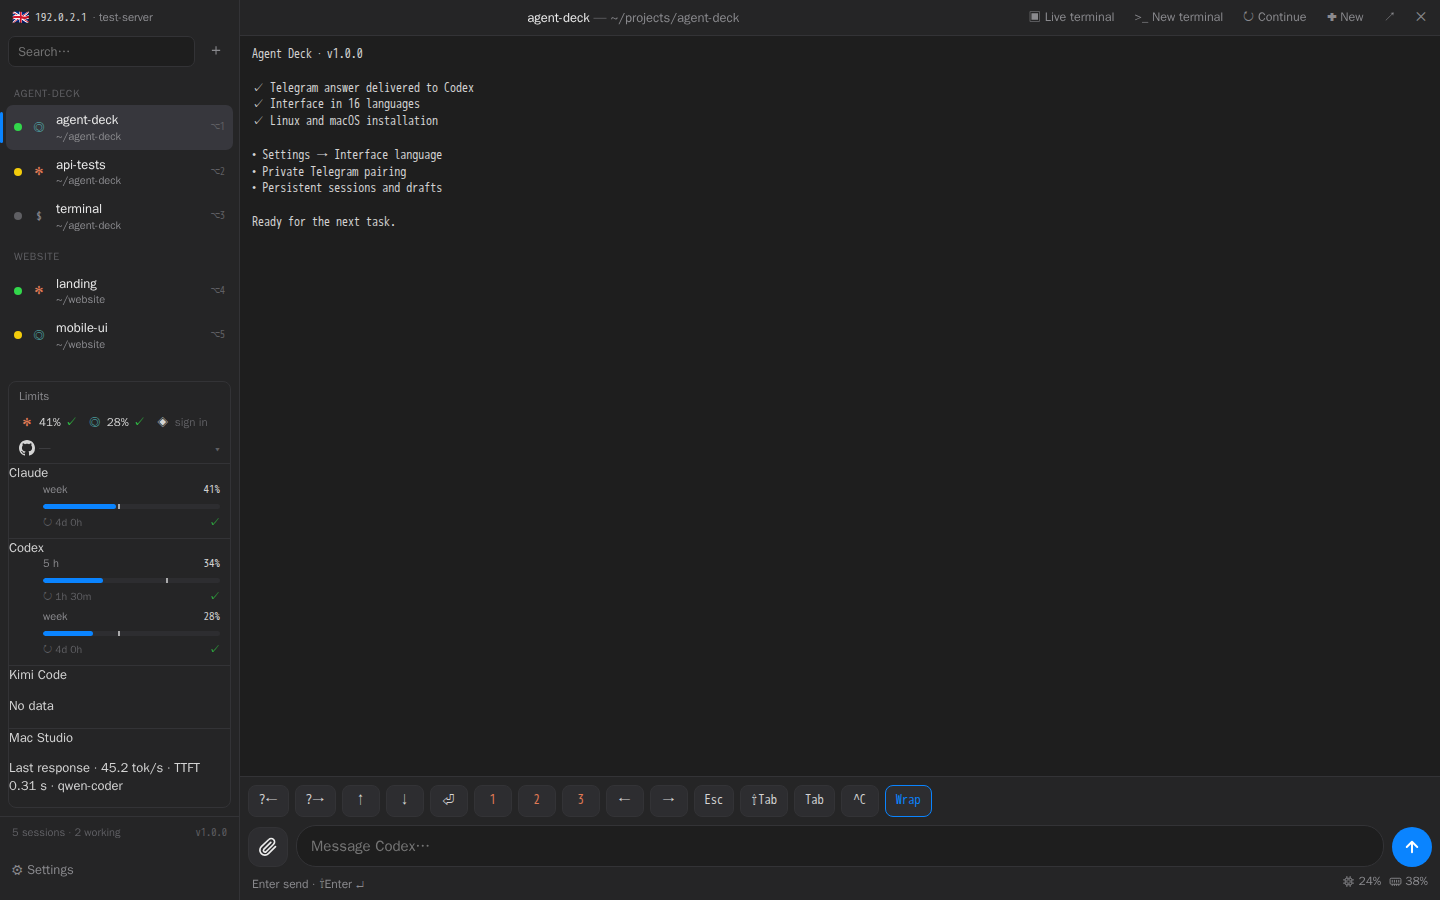
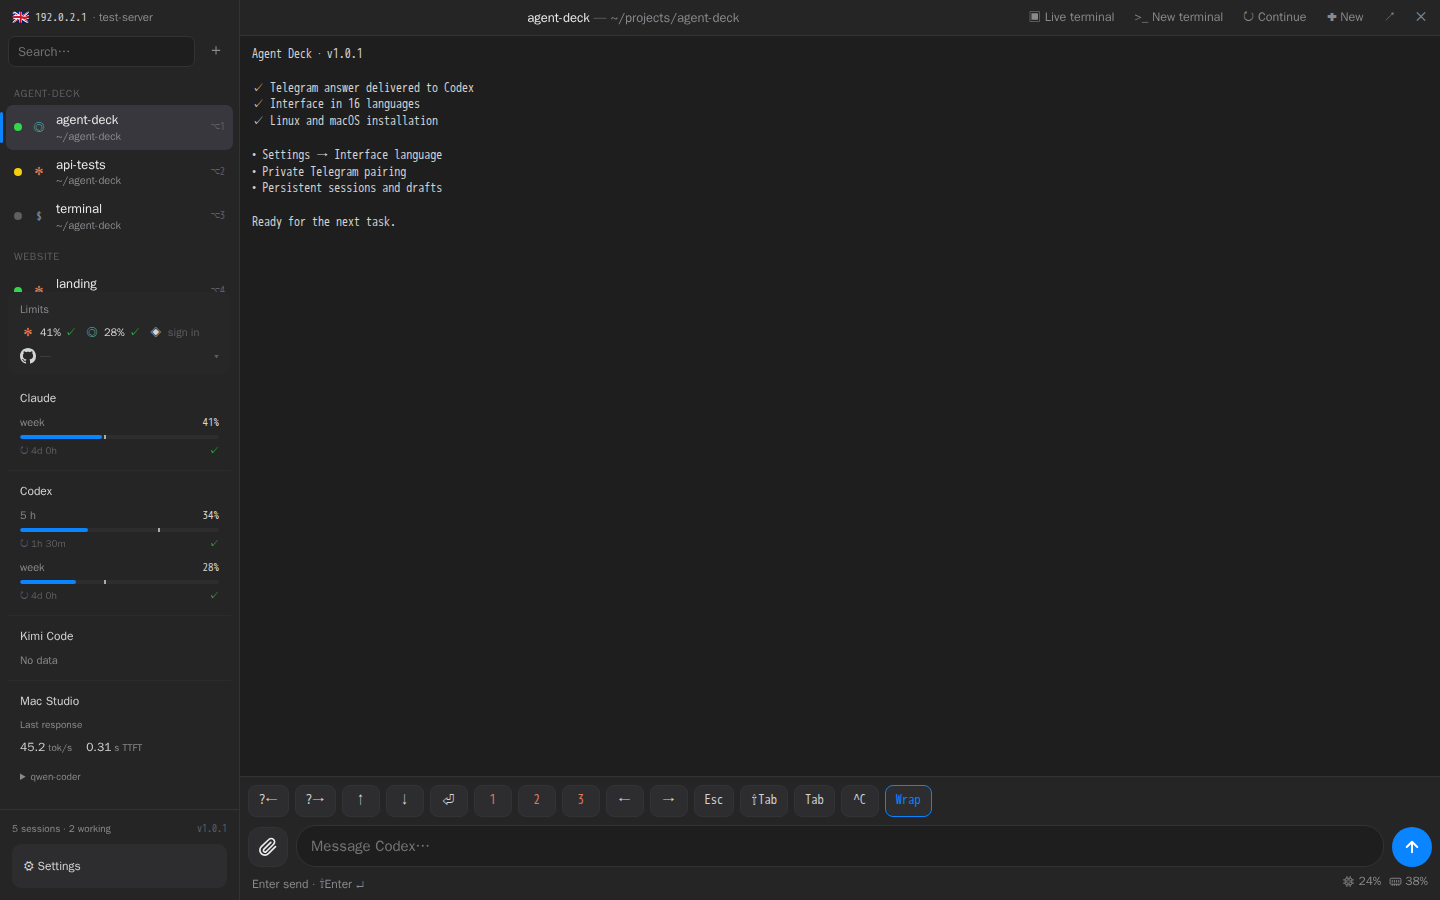
Polish drawer metrics and responsive settings dialogs

diff --git a/panel/index.html b/panel/index.html
@@ -318,15 +318,49 @@ dialog::backdrop{background:rgba(0,0,0,.55)}
 #closed_drafts pre{white-space:pre-wrap;overflow:auto;max-height:200px;overflow-wrap:anywhere}
 body.is-shell .agent-only{display:none!important}
 
-#settings_dlg{width:min(850px,calc(100vw - 32px));max-height:90dvh}
-.settings-hub{min-height:460px;max-height:90dvh}.hub-heading{display:flex;justify-content:space-between;align-items:center;padding:12px 20px;border-bottom:1px solid var(--bd)}
-.hub-heading h3{margin:0}.hub-heading button{min-width:44px;border-radius:8px}.settings-hub .pri{background:var(--acc);color:white;padding:10px 14px;border-radius:8px}.hub-nav button{padding:10px;border-radius:8px}.hub-card h4{font-size:15px;font-weight:600}.ihead{flex-wrap:wrap}.ihead>span:first-child{flex-basis:100%;text-align:left;font-weight:600}.hub-heading button{font-size:24px}.hub-nav{display:flex;gap:4px;padding:12px;flex-wrap:wrap;border-bottom:1px solid var(--bd)}
-.hub-nav button{flex:1}.hub-nav button.on{background:var(--acc);color:white}.hub-content section[hidden]{display:none}
-.settings-hub button,.settings-hub select,.settings-hub summary{min-height:44px}.hub-card{border:1px solid var(--bd);border-radius:12px;padding:16px;margin-bottom:12px;overflow-wrap:anywhere}.hub-card h4{margin:0 0 8px}.hub-card p{color:var(--mut);margin:6px 0 12px}.hub-card .acts{padding:0;flex-wrap:wrap}.hub-card select{width:100%;margin:8px 0}.hub-card details{margin-top:10px}.hub-card details button{margin:4px}
-#kimi_dlg[hidden],#integrations_dlg[hidden]{display:none}#kimi_dlg .dlg,#integrations_dlg .dlg{max-height:none;width:100%;border:1px solid var(--bd);border-radius:12px;margin:12px 0}.hub-content{overflow-y:auto}
-#n_source{width:100%;max-width:100%;min-width:0}#source_row{min-width:0}#source_row button{min-height:44px;margin:8px 0}.iblk{overflow-wrap:anywhere}
-#lm_editor{margin:12px 0;padding:12px;border:1px solid var(--bd);border-radius:12px}#lm_editor input{max-width:100%}.side-foot{flex-wrap:wrap}.side-foot .settingsbtn{font-size:13px;min-height:44px}.hub-card .good{color:var(--ok)}
-@media(max-width:760px){#settings_dlg{width:100vw;height:100dvh;max-height:100dvh;max-width:100vw;margin:0;border-radius:0}.settings-hub{height:100%;max-height:100dvh;min-height:0}.hub-nav{display:grid;grid-template-columns:1fr 1fr}.hub-nav button{font-size:13px;white-space:normal}.hub-content{padding:14px}.hub-card{padding:12px}.hub-card .acts button{min-width:100px}.hub-heading{padding:12px 14px}}
+/* Shared spacing and surfaces for settings, forms and the session drawer. */
+dialog{box-shadow:0 24px 80px #0006;border-color:#ffffff12;border-radius:16px}
+.dlg-body{padding:22px}.dlg h3{font-size:18px;margin-bottom:20px}.dlg label{font-size:12px;margin-top:16px}
+.dlg input[type=text],.dlg input[type=password],.dlg input[type=url],.dlg select{min-height:42px;border-radius:9px;padding:10px 12px}
+.dlg p{font-size:12px;line-height:1.5}.acts{padding:16px 22px;gap:8px}.acts button{min-height:42px;padding:10px 16px}
+#settings_dlg>.settings-hub{height:min(680px,85dvh);max-height:85dvh}
+#kimi_dlg,#integrations_dlg{width:100%;height:auto;max-height:none;margin:0;border:0;border-radius:0}
+#settings_dlg{width:min(940px,calc(100vw - 48px));max-height:85dvh}
+.settings-hub{display:grid;grid-template-columns:156px minmax(0,1fr);grid-template-rows:auto minmax(0,1fr);height:min(680px,85dvh);max-height:85dvh}
+.hub-heading{grid-column:1/-1;display:flex;justify-content:space-between;align-items:center;padding:14px 20px;border-bottom:1px solid var(--bd)}
+.hub-heading h3{margin:0;font-size:17px}.hub-heading button{width:44px;height:44px;border-radius:10px;font-size:24px;color:var(--mut)}.hub-heading button:hover{background:var(--side2);color:var(--fg2)}
+.hub-nav{display:flex;flex-direction:column;gap:4px;padding:16px 10px;border-right:1px solid var(--bd);background:#0000000a}
+.hub-nav button{min-height:44px;text-align:left;padding:10px 12px;border-radius:9px;color:var(--mut);font-size:13px;white-space:normal;overflow-wrap:anywhere}
+.hub-nav button.on{background:#0a84ff18;color:#69b5ff;font-weight:600}.hub-nav button:hover{background:var(--side2)}
+.hub-content{padding:20px;overflow-y:auto;min-width:0}.hub-content section[hidden]{display:none}
+.hub-card{border:1px solid var(--bd);border-radius:12px;padding:16px;margin-bottom:12px;background:#ffffff02;min-width:0;overflow-wrap:anywhere}
+.card-top{display:flex;justify-content:space-between;align-items:flex-start;gap:12px}.card-main{min-width:0;flex:1}.hub-card h4{margin:0;font-size:14px;font-weight:600;color:var(--fg2)}
+.hub-card p{color:var(--mut);margin:6px 0 12px;font-size:12px;line-height:1.5}.card-main p{margin:5px 0 0}
+.settings-hub button,.settings-hub select,.settings-hub summary{min-height:44px}.settings-hub .pri{background:var(--acc);color:#fff;padding:10px 14px;border-radius:9px;font-weight:500}
+.card-top>.pri{background:#0a84ff18;color:#69b5ff;flex-shrink:0;max-width:48%;font-size:12px;white-space:normal}
+.hub-card .acts{padding:12px 0 0;margin-top:12px;flex-wrap:wrap}.hub-card select{width:100%;min-width:0;margin:12px 0 0}.hub-card details{margin-top:10px}.hub-card details button{margin:4px;padding:8px 12px;border-radius:8px;background:var(--side2)}
+.hub-card summary{font-size:12px;color:var(--mut);padding:12px 0;cursor:pointer}
+#kimi_dlg[hidden],#integrations_dlg[hidden]{display:none}#kimi_dlg .dlg,#integrations_dlg .dlg{max-height:none;width:100%;border:1px solid var(--bd);border-radius:12px;margin:12px 0;background:var(--bg)}
+#integrations_dlg .integration-card{border:0;padding:0;background:none;margin:0}.integration-dialog .acts{padding:14px 18px}.integration-dialog .acts button{font-size:12px}.settings-account{margin-top:24px}
+#n_source{width:100%;max-width:100%;min-width:0}#source_row{min-width:0}#source_row button{min-height:44px;margin:8px 0;color:var(--acc);font-size:12px}
+#lm_editor{margin:12px 0;padding:14px 16px;border:1px solid var(--bd);border-radius:12px}#lm_editor summary{font-size:13px;cursor:pointer;padding:8px 0}#lm_editor input{max-width:100%}.hub-card .good{color:var(--ok)}
+/* Read-only usage belongs to a compact monitor, rather than unstyled headings. */
+#integ{border:0;background:transparent;border-radius:0}.ihead{display:flex;flex-wrap:wrap;padding:10px 12px;gap:8px;border-radius:9px;background:#ffffff03;font-size:11px}.ihead.open{border:0;margin-bottom:4px}
+.ihead>span:first-child{flex-basis:100%;text-align:left;font-size:11px;font-weight:500;color:var(--mut)}.ihead .sum{gap:4px}.ihead .chev{margin-left:auto}
+.iblk{padding:12px;border-bottom:1px solid #ffffff08;min-width:0}.provider-head{font-size:12px;font-weight:600;color:var(--fg);margin-bottom:9px;white-space:nowrap;overflow:hidden;text-overflow:ellipsis}
+.iblk>p{font-size:11px;color:var(--mut);margin:0}.usage{padding:0;gap:10px}.uw{font-size:11px;gap:5px}.uw .usage-meter{height:4px}.uw .rs,.uw .pace{font-size:10px}.local-caption{font-size:10px;color:var(--mut);margin-bottom:8px}
+.local-stats{display:flex;gap:14px;align-items:baseline;font-size:12px;font-variant-numeric:tabular-nums}.local-stats small{font-size:10px;color:var(--mut);margin-left:3px}.local-model{min-width:0;margin-top:8px;font-size:10px;color:var(--mut)}
+.local-model summary{white-space:nowrap;overflow:hidden;text-overflow:ellipsis;cursor:pointer;padding:6px 0;min-width:0}.local-model[open] summary{color:var(--fg)}.local-model div{padding:4px 0 8px;overflow-wrap:anywhere;line-height:1.5}
+.side-foot{display:grid;grid-template-columns:1fr auto;gap:8px;padding:12px;color:var(--mut);font-size:10px}.side-foot #ver{font-size:10px}.side-foot .settingsbtn{grid-column:1/-1;text-align:left;min-height:44px;font-size:12px;border-radius:9px;background:var(--side2);padding:10px 12px;color:var(--fg)}.side-foot #b_drafts{grid-column:1/-1;text-align:left}
+@media(max-width:760px){
+ #settings_dlg>.settings-hub{height:100%;max-height:100dvh}
+ #settings_dlg{width:100vw;height:100dvh;max-height:100dvh;max-width:100vw;margin:0;border-radius:0}.settings-hub{height:100%;max-height:100dvh;display:flex;flex-direction:column;min-height:0}
+ .hub-heading{padding:12px 16px;flex-shrink:0}.hub-heading h3{font-size:18px}.hub-nav{display:grid;grid-template-columns:repeat(4,minmax(0,1fr));gap:8px;padding:8px 12px;border-right:0;border-bottom:1px solid var(--bd);flex-shrink:0;background:none}
+ .hub-nav button{flex:1;min-width:0;text-align:center;font-size:12px;padding:8px 4px;line-height:1.3}.hub-content{padding:16px;flex:1;min-height:0}.hub-card{padding:14px;margin-bottom:10px}.card-top{gap:10px}.card-top>.pri{padding:8px 10px}
+ .hub-card .acts button{flex:1;min-width:0;white-space:normal;font-size:12px}.dlg-body{padding:20px}.dlg .acts{padding:14px 20px}.dlg label{font-size:12px}.dlg h3{font-size:18px}
+ #integ{margin:6px 12px 12px}.ihead{padding:10px 12px;font-size:12px;gap:10px}.ihead>span:first-child{font-size:12px}.iblk{padding:12px}.provider-head{font-size:13px}.usage{padding:0;gap:10px}.uw{font-size:12px;gap:5px}.uw .usage-meter{height:4px}.uw .rs,.uw .pace,.uw .forecast{font-size:11px}.local-stats{font-size:14px}.local-stats small,.local-caption,.local-model{font-size:11px}
+ .side-foot{padding:12px 16px calc(12px + var(--sab));font-size:11px}.side-foot .settingsbtn{font-size:14px}
+}
 </style></head><body>
 <div id="app">
   <aside>
@@ -1193,13 +1227,23 @@ function renderInteg(){
   if(!integOpen){$("integ").replaceChildren(head);return}
   const blocks=[head];
   for(const a of ["claude","codex","kimi"]){
-    const u=usageData[a],blk=el("div","iblk",el("strong","",AGENTS[a].label));
+    const u=usageData[a],blk=el("div","iblk",el("div","provider-head",AGENTS[a].label));
     const ub=usageBlock(u);if(ub)blk.append(ub);else blk.append(el("p","",tr("Нет данных")));
     blocks.push(blk);
   }
-  for(const p of lmData.profiles||[]){const m=p.performance||{};blocks.push(el("div","iblk",el("strong","",p.name),el("p","",performanceText(m))))}
+  for(const p of lmData.profiles||[])blocks.push(localUsage(p));
   $("integ").replaceChildren(...blocks);
   if($("settings_dlg").open&&!$("settings_dlg").contains(document.activeElement))renderHub();
+}
+function localUsage(profile){
+  const sample=profile.performance||{},box=el("div","iblk local-usage",el("div","provider-head",profile.name));
+  box.append(el("div","local-caption",sample.source==="session"?tr("Последний ответ"):sample.source==="benchmark"?tr("Тест скорости"):tr("Без лимитов")));
+  const stats=el("div","local-stats");
+  if(Number.isFinite(sample.tokens_per_second))stats.append(el("span","",sample.tokens_per_second.toFixed(1),el("small","","tok/s")));
+  if(Number.isFinite(sample.time_to_first_token_seconds))stats.append(el("span","",sample.time_to_first_token_seconds.toFixed(2),el("small","","s TTFT")));
+  box.append(stats);
+  if(sample.model){const summary=el("summary","",sample.model);summary.title=sample.model;box.append(el("details","local-model",summary,el("div","",sample.model)))}
+  return box;
 }
 let hubSection="agents",lmData={profiles:[],discovery:{}},lmTimer=null,returnToNew=false;
 function settingsSection(section){
@@ -1214,26 +1258,26 @@ async function openSettings(section="agents"){
   clearInterval(lmTimer);lmTimer=setInterval(()=>{if($("settings_dlg").open&&lmData.discovery?.phase==="running")loadLM(false)},2000);
 }
 $("settings_dlg").addEventListener("close",()=>{if($("settings_dlg").open)return;clearInterval(lmTimer);closeKimi();closeIntegrations();$("lm_key").value="";if(returnToNew){returnToNew=false;$("dlg").showModal();renderSources()}});
-function card(name,status,label,action,secondary=[]){const c=el("div","hub-card",el("h4","",name),el("p","",status),btn(label,"pri",action));if(secondary.length){const d=el("details","",el("summary","",tr("Другие действия")));for(const [text,fn] of secondary)d.append(btn(text,"",fn));c.append(d)}return c}
+function card(name,status,label,action,secondary=[]){const c=el("div","hub-card",el("div","card-top",el("div","card-main",el("h4","",name),el("p","",status)),btn(label,"pri",action)));if(secondary.length){const d=el("details","",el("summary","",tr("Другие действия")));for(const [text,fn] of secondary)d.append(btn(text,"",fn));c.append(d)}return c}
 function renderHub(){
   const selections=new Map([...$("model_cards").querySelectorAll("select")].map(x=>[x.dataset.profile,x.value]));
   $("hub_agents").replaceChildren(...["claude","codex","kimi"].map(a=>{const st=lastAg[a]||{};if(a==="kimi")return card(AGENTS[a].label,st.version||tr("Не установлен"),st.installed?(lastAg.kimi_config?.configured?tr("Обновить"):tr("Настроить ключ Kimi")):tr("Установить"),()=>st.installed&&!lastAg.kimi_config?.configured?openKimi():agentAction("install",a));return card(AGENTS[a].label,[st.version,st.installed?(st.logged_in?tr("подключён"):tr("Войти")):tr("Не установлен")].filter(Boolean).join(" · "),st.installed?(st.logged_in?tr("Обновить"):tr("Войти")):tr("Установить"),()=>agentAction(st.installed&&!st.logged_in?"login":"install",a),st.installed?[[tr("Обновить"),()=>agentAction("install",a)]]:[])}));
   const cards=[card("Kimi",lastAg.kimi_config?.configured?tr("Ключ сохранён на сервере"):tr("Ключ ещё не настроен"),tr("Настроить"),()=>openEditor("kimi"))];
   for(const p of lmData.profiles||[]){
     const c=card(p.name+" · LM Studio",p.url+" · "+tr(p.status==="online"?"подключён":p.status==="needs_key"?"Нужен ключ":p.status==="offline"?"Недоступен":"Не проверен"),tr("Проверить подключение"),()=>lmAction("probe",{id:p.id}),[[tr("Изменить"),()=>editLM(p)],[tr("Удалить"),()=>lmAction("remove",{id:p.id})]]);
-    const samples=p.measurements?Object.values(p.measurements).flatMap(group=>Object.values(group)):[p.performance||{}];for(const sample of samples)c.append(el("p","",performanceText(sample)));
+    const samples=p.measurements?Object.values(p.measurements).flatMap(group=>Object.values(group)):[p.performance||{}];for(const sample of samples)c.append(el("p","",performanceText(sample,false)));
     if(p.models?.length){const select=el("select","");select.dataset.profile=p.id;select.setAttribute("aria-label",tr("Модель"));for(const m of p.models){const o=el("option","",m.name+(m.loaded?" · "+tr("Загружена"):"")+(m.tool_tested?" · ✓ tools":""));o.value=m.id;select.append(o)}if(selections.has(p.id))select.value=selections.get(p.id);if(!select.value&&select.options.length)select.selectedIndex=0;c.append(select);const detail=el("p","");const describe=()=>{const m=p.models.find(x=>x.id===select.value);detail.textContent=[m.context_length||m.max_context_length?"Context: "+(m.context_length||m.max_context_length):"",m.quantization||"",m.tool_tested?"Tools: ✓":"Tools: ?"].filter(Boolean).join(" · ")};select.onchange=describe;describe();c.append(detail);const actions=el("div","acts",btn(tr("Проверить инструменты"),"",()=>lmAction("test",{id:p.id,model:select.value})),btn(tr("Измерить скорость"),"",()=>lmAction("benchmark",{id:p.id,model:select.value})));c.append(actions)}cards.push(c);
   }
   $("model_cards").replaceChildren(...cards);
   $("connection_cards").replaceChildren(card("GitHub",ghLogin||tr("Не подключён"),ghLogin?tr("Репозитории"):tr("Подключить"),()=>{returnToNew=false;$("settings_dlg").close();ghLogin?openNew():ghConnect()}),card("Telegram",telegramConfig.paired?tr("подключён"):tr("Не подключён"),tr("Настроить"),()=>openEditor("telegram")));
   if(panelVersion)renderVersion(panelVersion);
 }
-function performanceText(m){
+function performanceText(m,includeModel=true){
   const parts=[m.source==="session"?tr("Последний ответ"):m.source==="benchmark"?tr("Тест скорости"):tr("Без лимитов")];
   if(Number.isFinite(m.tokens_per_second))parts.push(m.tokens_per_second.toFixed(1)+" tok/s");
   if(Number.isFinite(m.time_to_first_token_seconds))parts.push("TTFT "+m.time_to_first_token_seconds.toFixed(2)+" s");
   if(Number.isFinite(m.model_load_time_seconds))parts.push(tr("Загрузка")+" "+m.model_load_time_seconds.toFixed(2)+" s");
-  if(m.model)parts.push(m.model);return parts.join(" · ");
+  if(includeModel&&m.model)parts.push(m.model);return parts.join(" · ");
 }
 async function loadLM(refresh=true){try{lmData=await api("/api/lmstudio");if($("settings_dlg").open&&refresh)renderHub();renderDiscovery()}catch(e){$("lm_progress").textContent=e.message}}
 function editLM(p){$("lm_editor").open=true;$("lm_id").value=p.id||"";$("lm_name").value=p.name||"";$("lm_url").value=p.url||"";$("lm_key").value="";$("lm_clear_key").checked=false;$("lm_editor").scrollIntoView({block:"nearest"})}

diff --git a/tests/frontend/settings-hub.spec.js b/tests/frontend/settings-hub.spec.js
@@ -69,3 +69,23 @@ test('native Kimi source defaults to the saved model instead of always K3',async
  await expect(page.locator('#n_source')).toHaveValue(JSON.stringify({kind:'kimi',model:'kimi-for-coding-highspeed'}));
  await expect(page.locator('#agsel [data-a="claude-kimi"]')).toHaveCount(0);
 });
+
+test('drawer keeps a long local model compact and lets the user reveal its full name',async({app,page})=>{
+ const p=localProfile();p.name='RED';p.performance={...p.performance,source:'benchmark',model:'qwen-coder-'+ 'long-model-name-'.repeat(12)};app.lmstudio.profiles=[p];
+ await app.open({width:320});await page.evaluate(()=>{drawer(true);integOpen=true;renderInteg()});
+ const block=page.locator('.local-usage');await expect(block).toContainText('39.5');
+ const bounds=await block.boundingBox();expect(bounds.height).toBeLessThan(160);
+ const summary=block.locator('summary');expect(await summary.evaluate(e=>e.scrollWidth>e.clientWidth)).toBe(true);
+ await summary.click();await expect(block.locator('.local-model div')).toHaveText(p.performance.model);
+ expect(await page.locator('aside').evaluate(e=>e.scrollWidth<=e.clientWidth)).toBe(true);
+});
+
+test('phone settings scroll content inside a fixed header and short navigation bar',async({app,page})=>{
+ app.lmstudio.profiles=[localProfile()];await app.open({width:320});await page.evaluate(()=>openSettings('models'));
+ const nav=await page.locator('.hub-nav').boundingBox();expect(nav.height).toBeLessThan(90);
+ const heading=await page.locator('.hub-heading').boundingBox();
+ await page.locator('.hub-content').evaluate(e=>e.scrollTop=e.scrollHeight);
+ await expect(page.locator('#lm_ports')).toBeInViewport();
+ expect((await page.locator('.hub-heading').boundingBox()).y).toBe(heading.y);
+ expect(await page.locator('.hub-content').evaluate(e=>e.scrollWidth<=e.clientWidth)).toBe(true);
+});

diff --git a/CHANGELOG.md b/CHANGELOG.md
@@ -2,6 +2,16 @@
 
 Versions follow [semver](https://semver.org). Install a version with `sudo ./update.sh vX.Y.Z`.
 
+## 1.0.1 — 2026-10-03
+
+- Redesign the drawer usage monitor with aligned headings, compact metrics and
+  expandable long model names instead of multi-line blocks.
+- Unify modal spacing, controls and card actions; use a sidebar for desktop settings
+  and a compact navigation strip on phones.
+- Keep mobile modal headers fixed while content scrolls, and correct inherited
+  dialog dimensions on inline integration forms.
+- Refresh public demo screenshots and verify narrow-phone layouts across locales.
+
 ## 1.0.0 — 2026-10-03
 
 - Unify desktop and mobile settings into Agents, Models, Connections and Application.
